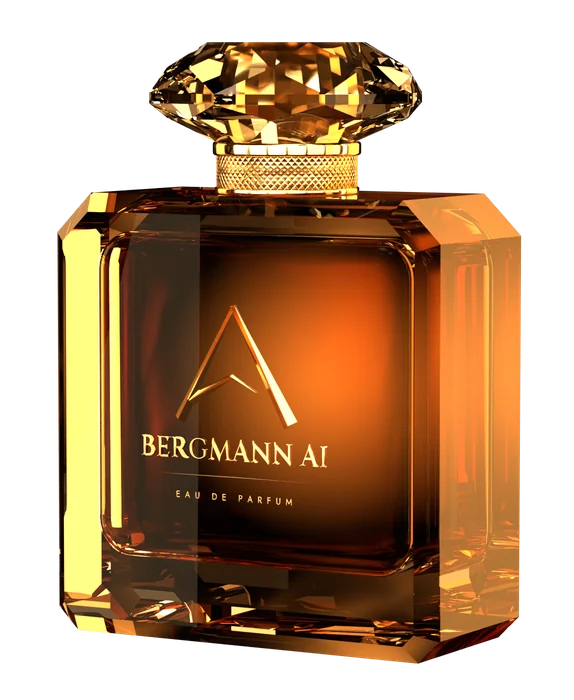
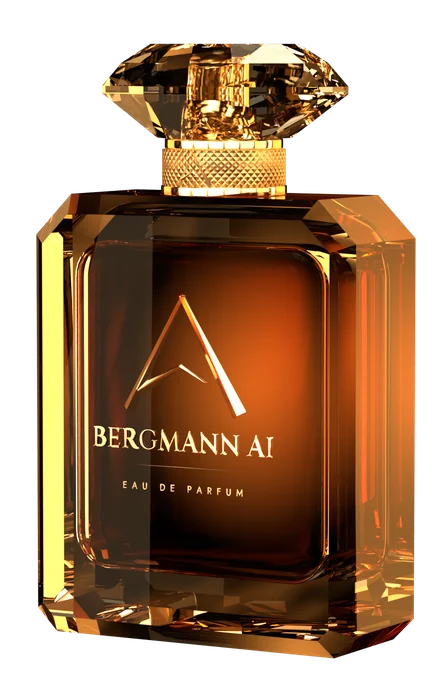
Parfum-Vorlage: Drehfolge im neuen Design (Ansichten-Blatt), passende Bildmaße
- 13 Winkel von -30° bis +30°, gerendert mit 1400 px Höhe, jetzt im schlanken
  Format 0,64 (1200er-Satz 1,16 MB, 700er-Satz 0,56 MB)
- bildflakon.js: Bildmaße und Versatz der Vorderseite für das neue Modell

Claude-Session: https://claude.ai/code/session_019nyCnVepV9BWLf1fmYvV7T

diff --git a/vorlagen/parfum/assets/3d/bildflakon.js b/vorlagen/parfum/assets/3d/bildflakon.js
@@ -9,12 +9,13 @@ import * as THREE from './three.module.min.js';
 
 // Maße aus flakon.py (Form "hero"): ganze Höhe (Szene), Höhe des Glaskörpers, Bildhöhe (VIS), Seitenverhältnis
 // (ASPECT) und wie weit die Bildmitte unter der Flakonmitte liegt (DROP, hier in Szenen-Einheiten)
-export const HERO = { total: 1.5, h: 1.121, vis: 1.18, aspect: 0.82, drop: 0.025 };
+export const HERO = { total: 1.5, h: 1.122, vis: 1.18, aspect: 0.64, drop: 0.021, front: 0.215 / 1.564 };
 // Drehfolge aus render.py: Bild 0 = -30°, dann alle 5° bis +30° (Bild 12)
 export const DREH = { von: -30, schritt: 5, anzahl: 13 };
-// Halbe Tiefe des Glaskörpers (flakon.py: d/2 = 0,23) im Verhältnis zur Bildbreite. Beim Überblenden wird jedes
-// Bild so verschoben, dass die Vorderseite (Etikett) in beiden Bildern an derselben Stelle steht: keine doppelte Schrift.
-const FRONT = (0.23 / 1.311) / (HERO.vis * HERO.aspect);
+// Halbe Tiefe des Glaskörpers (HERO.front: d/2 geteilt durch die ganze Höhe in flakon.py) im Verhältnis zur Bildbreite.
+// Beim Überblenden wird jedes Bild so verschoben, dass die Vorderseite (Etikett) in beiden Bildern an derselben
+// Stelle steht: keine doppelte Schrift.
+const FRONT = HERO.front / (HERO.vis * HERO.aspect);
 
 // Kehrwerte der Matrizen der Filmkurve in bloom.js
 const I = new THREE.Matrix3().set(0.59719, 0.35458, 0.04823, 0.07600, 0.90834, 0.01566, 0.02840, 0.13383, 0.83777);
